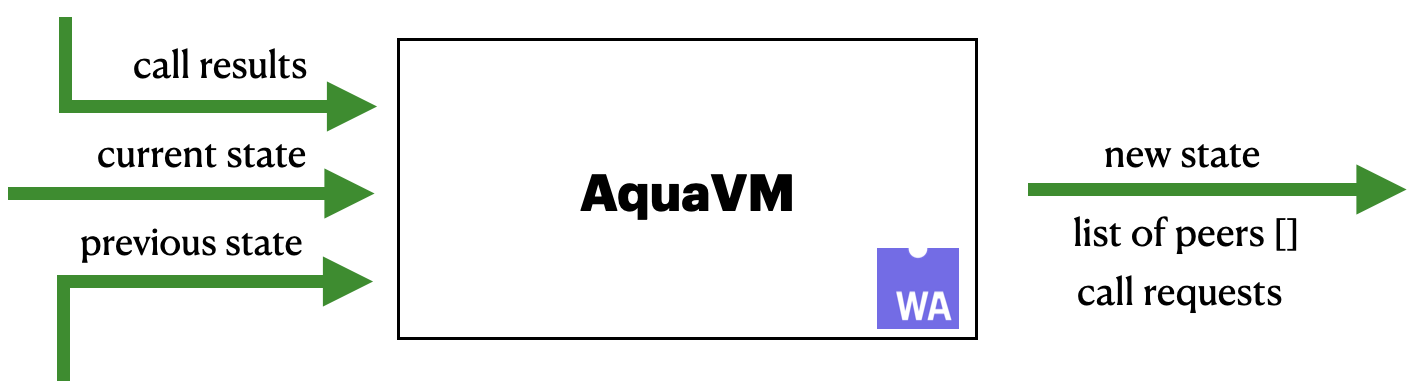
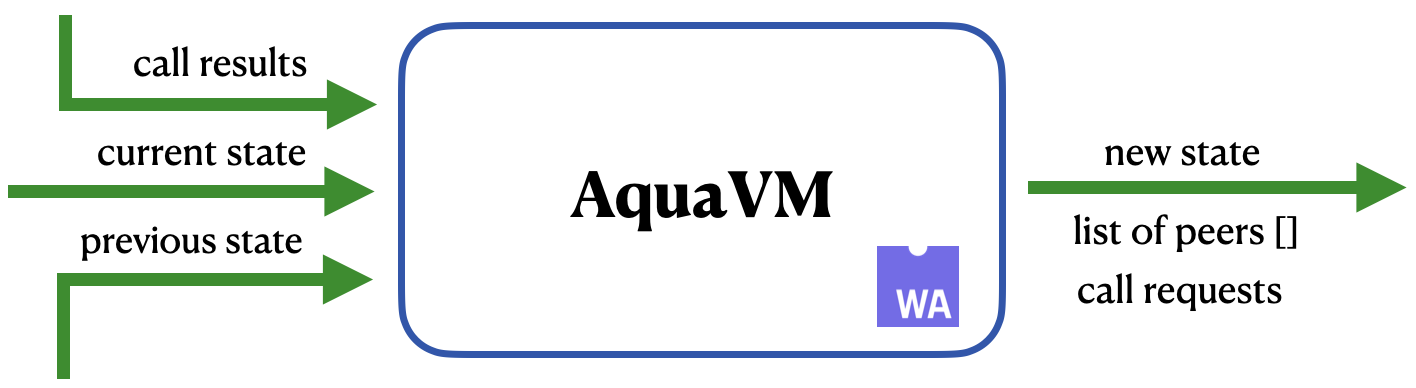
fix images

diff --git a/README.md b/README.md
@@ -5,7 +5,7 @@
 
 AquaVM is the interpreter of AIR scripts intended to be an integral pillar of the Fluence network. It allows expressing network choreography in scripts and compose distributed, peer-to-peer hosted services. AquaVM compiles to Wasm and run both client- and server-side.
 
-<img alt="AquaVM & AIR model" src="images/air_model.png" />
+<img alt="AquaVM & AIR model" src="images/aquavm_air_model.png" />
 
 ## AquaVM: interpreter execution model
 
